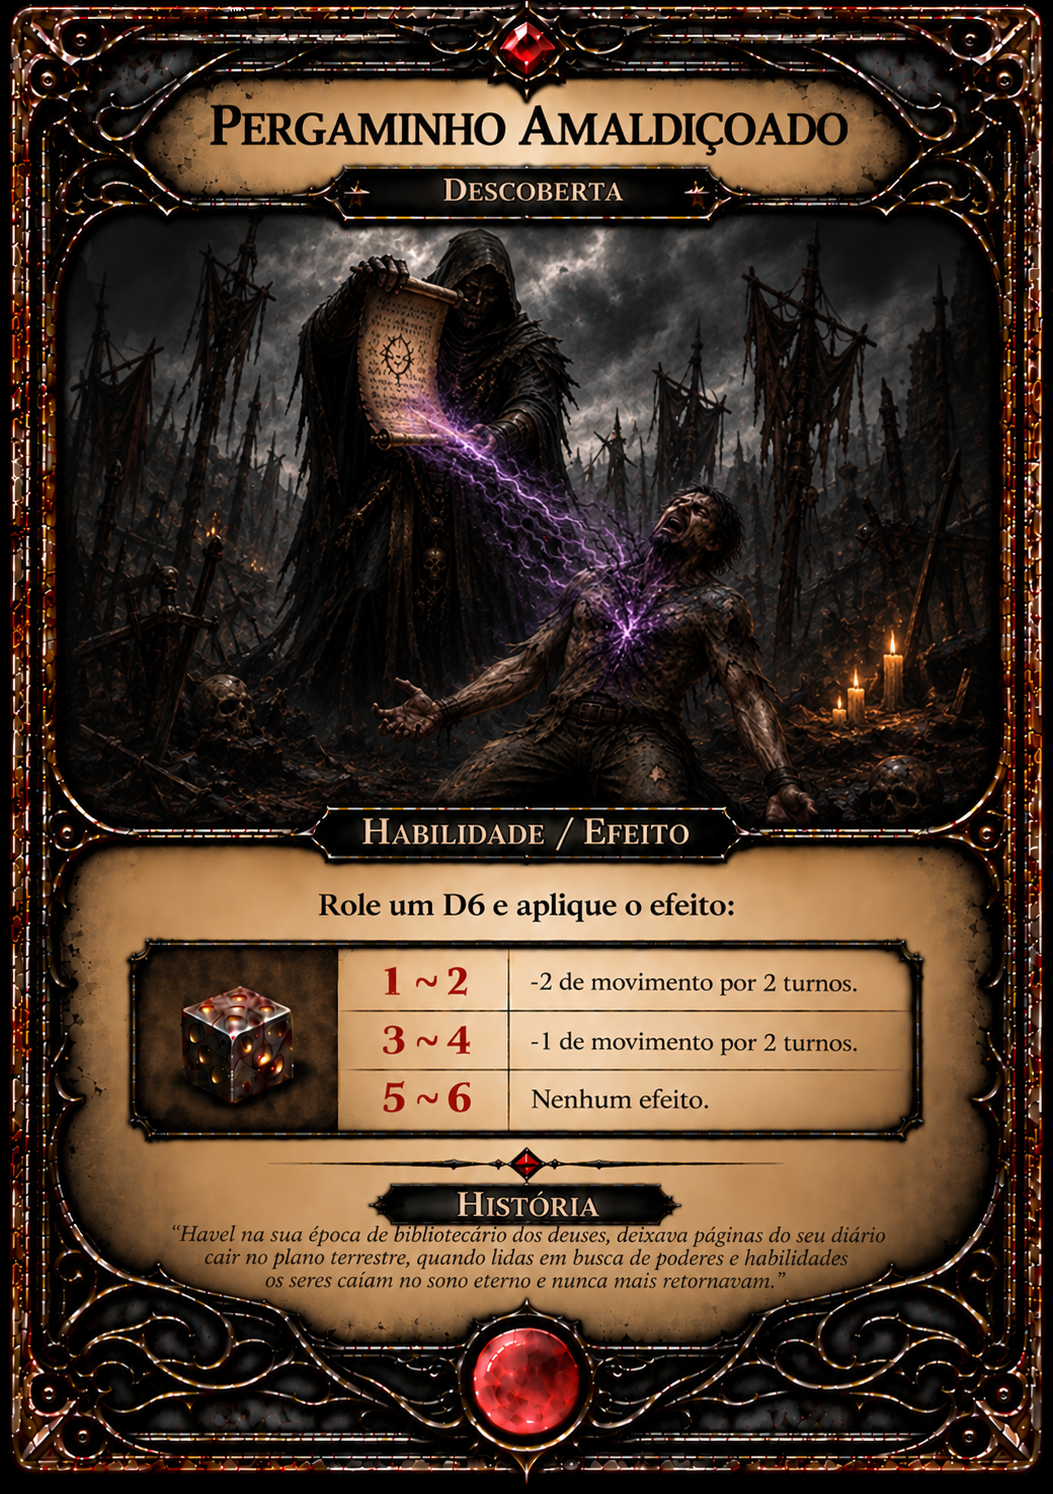
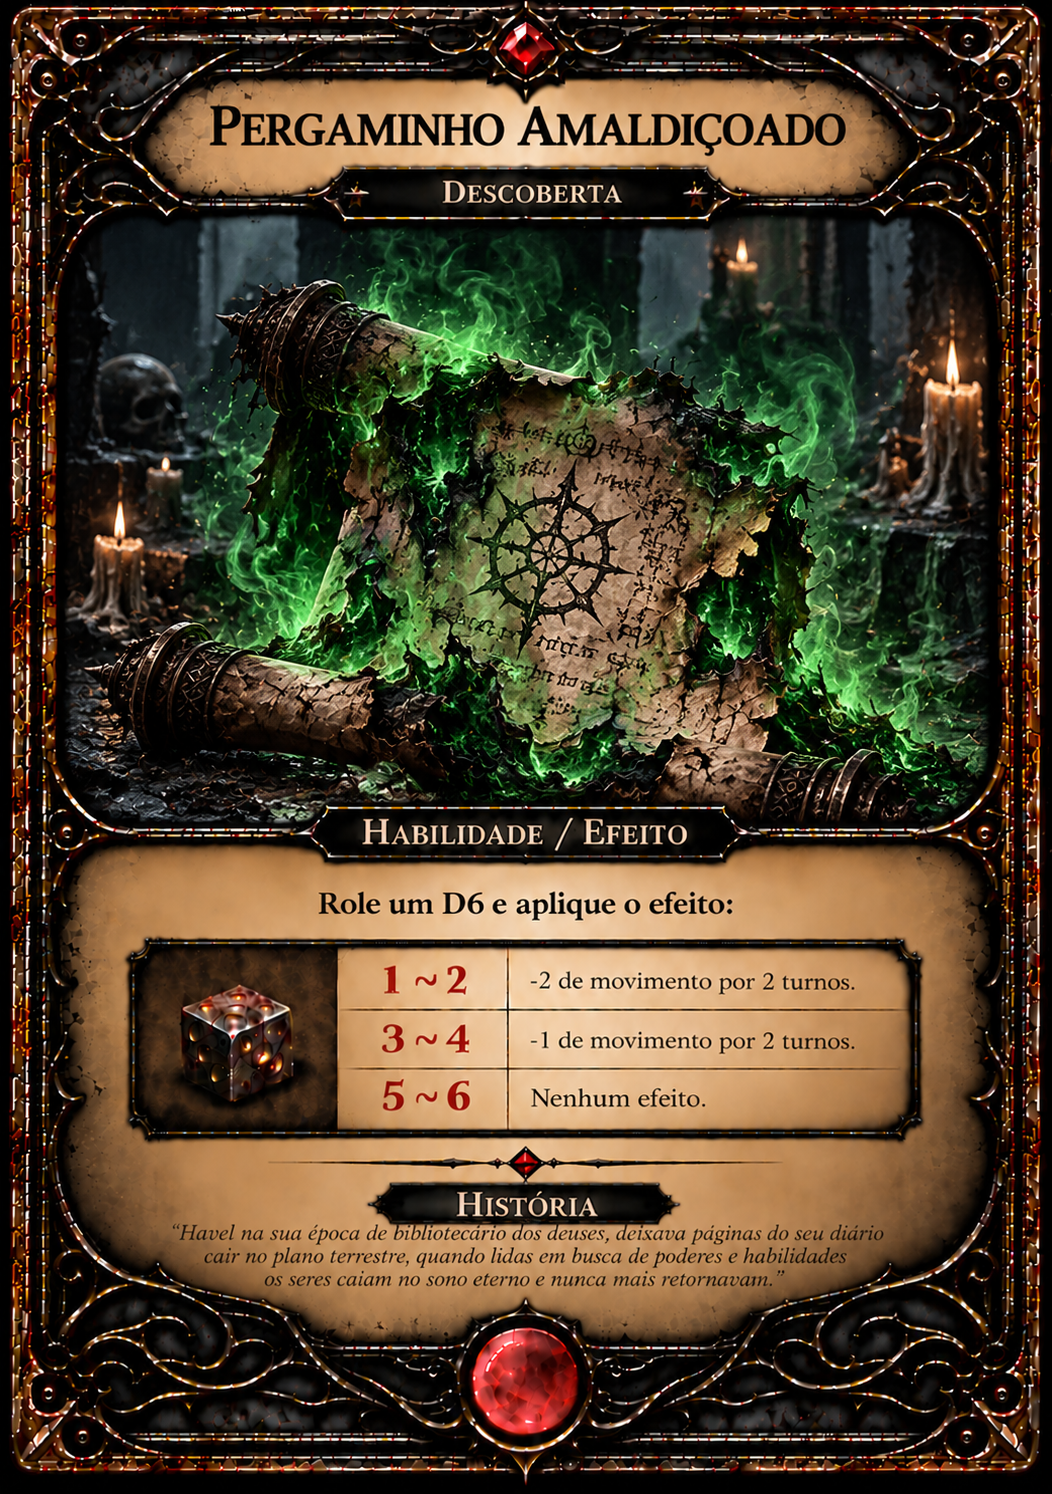
Simbionte e Descobertas

diff --git a/ato1.html b/ato1.html
@@ -3736,7 +3736,7 @@
                         <li onclick="mostrarImagemGrupo('./assets/ATO1/cartas/inimigos_elites/quilhionte.png')">Quilhionte</li>
                         <li onclick="mostrarImagemGrupo('./assets/ATO1/cartas/inimigos_elites/quimera.png')">Quimera</li>
                         <li onclick="mostrarImagemGrupo('./assets/ATO1/cartas/inimigos_elites/sarcedote_de_draqma.png')">Sarcedote de Draqma</li>
-                        <li onclick="mostrarImagemGrupo('./assets/ATO1/cartas/inimigos_elites/simbionte.png')">Simbionte</li>
+                        <li onclick="mostrarImagemGrupo('./assets/ATO1/cartas/inimigos_elites/simbionte.png')">Simbiose Maculada</li>
                         <li onclick="mostrarImagemGrupo('./assets/ATO1/cartas/inimigos_elites/triturador.png')">Triturador</li>
                         <li onclick="mostrarImagemGrupo('./assets/ATO1/cartas/inimigos_elites/troll_das_cavernas.png')">Troll das Cavernas</li>
                         <li onclick="mostrarImagemGrupo('./assets/ATO1/cartas/inimigos_elites/vampiro_alfa.png')">Vampiro Alfa</li>
@@ -3871,16 +3871,28 @@
                         <li onclick="mostrarImagemGrupo('./assets/ATO1/cartas/Descobertas/deslizamento.png')">Deslizamento</li>
                         <li onclick="mostrarImagemGrupo('./assets/ATO1/cartas/Descobertas/emboscada.png')">Emboscada</li>
                         <li onclick="mostrarImagemGrupo('./assets/ATO1/cartas/Descobertas/encontro_com_a_macula.png')">Encontro com a Mácula</li>
+                        <li onclick="mostrarImagemGrupo('./assets/ATO1/cartas/Descobertas/envenenamento.png')">Envenenamento</li>
                         <li onclick="mostrarImagemGrupo('./assets/ATO1/cartas/Descobertas/flanquear_a_rota.png')">Flanquear a Rota</li>
                         <li onclick="mostrarImagemGrupo('./assets/ATO1/cartas/Descobertas/furto.png')">Furto</li>
                         <li onclick="mostrarImagemGrupo('./assets/ATO1/cartas/Descobertas/grande_estalagem.png')">Grande Estalagem</li>
+                        <li onclick="mostrarImagemGrupo('./assets/ATO1/cartas/Descobertas/grande_vala.png')">Grande Vala</li>
                         <li onclick="mostrarImagemGrupo('./assets/ATO1/cartas/Descobertas/jardins_suspensos.png')">Jardins Suspensos</li>
                         <li onclick="mostrarImagemGrupo('./assets/ATO1/cartas/Descobertas/Local Amaldiçoado.png')">Local Amaldiçoado</li>
-                        <li onclick="mostrarImagemGrupo('./assets/ATO1/cartas/Descobertas/Mantimentos Enterrados.png')">Mantimentos Enterrados</li>                        
+                        <li onclick="mostrarImagemGrupo('./assets/ATO1/cartas/Descobertas/Mantimentos Enterrados.png')">Mantimentos Enterrados</li>
+                        <li onclick="mostrarImagemGrupo('./assets/ATO1/cartas/Descobertas/nevoeiro.png')">Nevoeiro</li>                         
                         <li onclick="mostrarImagemGrupo('./assets/ATO1/cartas/Descobertas/Oasis.png')">Oasis</li>
+                        <li onclick="mostrarImagemGrupo('./assets/ATO1/cartas/Descobertas/pergaminho_amaldicoado.png')">Pergaminho Amaldiçoado</li> 
                         <li onclick="mostrarImagemGrupo('./assets/ATO1/cartas/Descobertas/Perseguido.png')">Perseguido</li>
+                        <li onclick="mostrarImagemGrupo('./assets/ATO1/cartas/Descobertas/poco_de_espinho.png')">Poço de Espinho</li>
+                        <li onclick="mostrarImagemGrupo('./assets/ATO1/cartas/Descobertas/rota_confinada.png')">Rota Confinada</li> 
                         <li onclick="mostrarImagemGrupo('./assets/ATO1/cartas/Descobertas/Rota Indesejada.png')">Rota Indesejada</li>
+                        <li onclick="mostrarImagemGrupo('./assets/ATO1/cartas/Descobertas/sacrificio_a_macula.png')">Sacrifício à Mácula</li>
+                        <li onclick="mostrarImagemGrupo('./assets/ATO1/cartas/Descobertas/tempestade_pesada.png')">Tempestade Pesada</li>
                         <li onclick="mostrarImagemGrupo('./assets/ATO1/cartas/Descobertas/Templo Sagrado.png')">Templo Sagrado</li>
+                        <li onclick="mostrarImagemGrupo('./assets/ATO1/cartas/Descobertas/totem_mistico.png')">Totem Místico</li>
+                        <li onclick="mostrarImagemGrupo('./assets/ATO1/cartas/Descobertas/vespas_de_sangue.png')">Vespas de Sangue</li>
+                        <li onclick="mostrarImagemGrupo('./assets/ATO1/cartas/Descobertas/vinhas_na_estrada.png')">Vinhas na Estrada</li>
+
                         
                     </ul>
                 </div>
